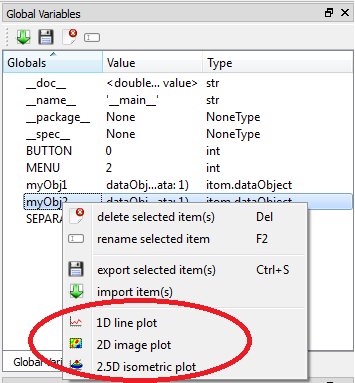
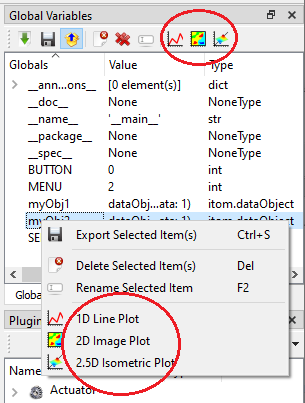
renewed some ugly plot screenshots

diff --git a/docs/userDoc/source/05_plots/primitives.rst b/docs/userDoc/source/05_plots/primitives.rst
@@ -24,7 +24,7 @@ The plot functionality can be accessed by three different ways. The first way is
 The red X ("clear button") will delete all geometric elements within the plot either drawn by hand or by script.
 
 .. figure:: images/drawInto2DToolbarIcons.png
-    :width: 100%
+    :width: 893
     :align: center
 
 At the moment "itom" supports the following shapes:
@@ -40,7 +40,7 @@ During the design mode, a green line indicates the current position and size of 
 is finished and its color turns to the corresponding inverse color of the current color palette. 
     
 .. figure:: images/drawInto2D.png
-    :width: 100%
+    :width: 893
     :align: center
 
 By clicking the **tools >> clear marker** menu, all current shapes are deleted. After creation the geometric elements can be edited by left-clicking one of the element handles which becomes high-lighted (squares) and moving the mouse.
